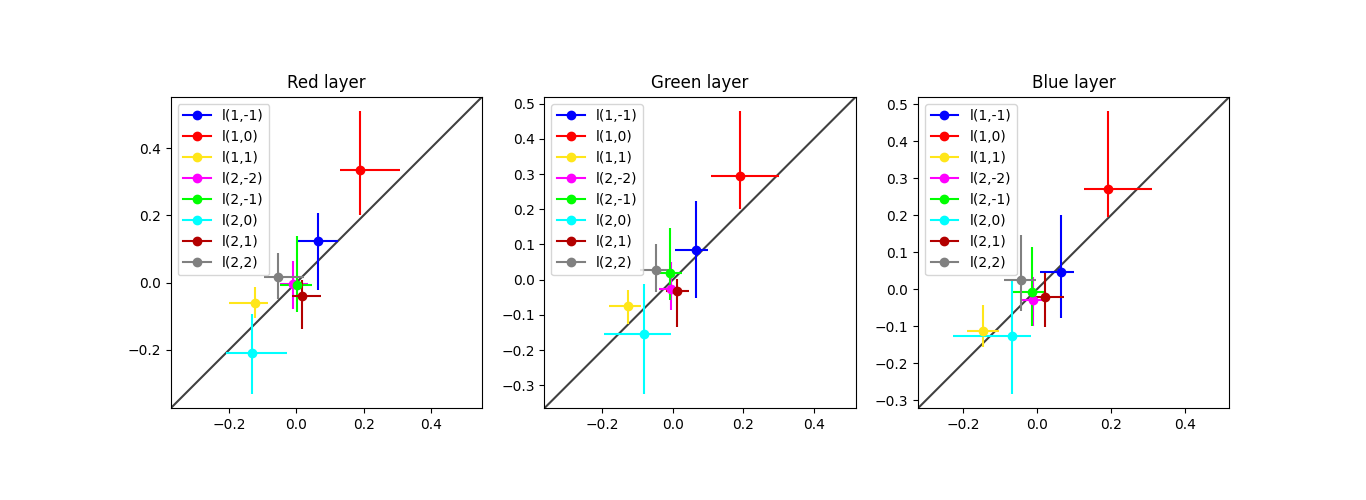
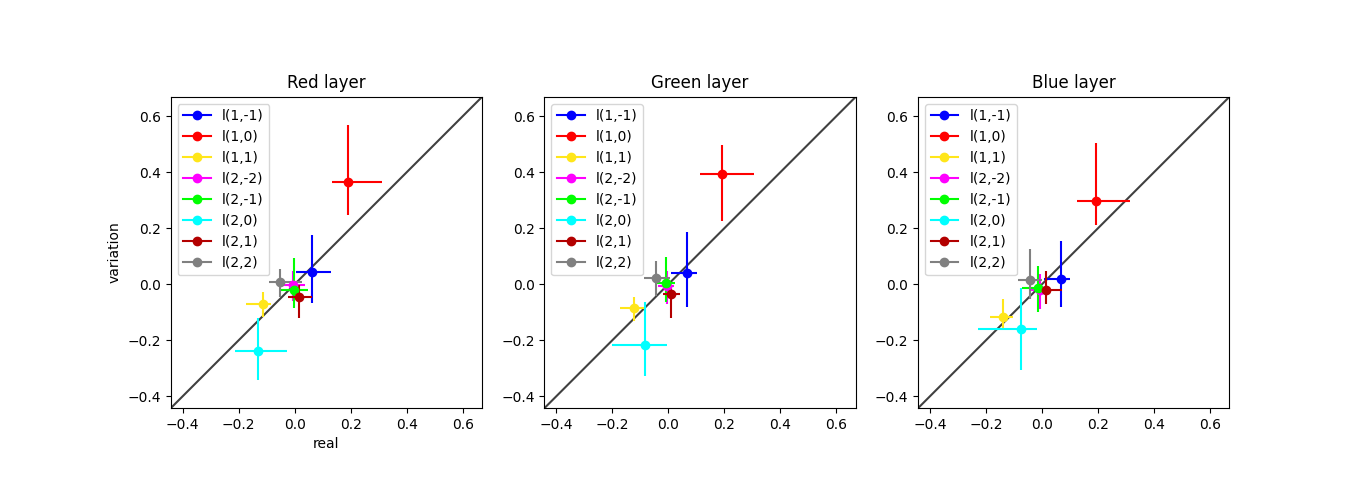
geometrical_behaviour.png

diff --git a/Code/figure_4.py b/Code/figure_4.py
@@ -59,8 +59,64 @@ l20ListY = [[myC.l20[k]/myC.l00[k] for k in range(3)] for myC in dataY]
 l21ListY = [[myC.l21[k]/myC.l00[k] for k in range(3)] for myC in dataY]
 l22ListY = [[myC.l22[k]/myC.l00[k] for k in range(3)] for myC in dataY]
 
+#X
+l1m1Q35X = np.quantile(l1m1ListX, 0.35, axis=0)
+l1m1Q50X = np.quantile(l1m1ListX, 0.5, axis=0)
+l1m1Q65X = np.quantile(l1m1ListX, 0.65, axis=0)
+print(f"l1m1Q35X: {l1m1Q35X}")
+print(f"l1m1Q50X: {l1m1Q50X}")
+print(f"l1m1Q65X: {l1m1Q65X}")
+print()
+l10Q35X = np.quantile(l10ListX, 0.35, axis=0)
+l10Q50X = np.quantile(l10ListX, 0.5, axis=0)
+l10Q65X = np.quantile(l10ListX, 0.65, axis=0)
+print(f"l10Q35X: {l10Q35X}")
+print(f"l10Q50X: {l10Q50X}")
+print(f"l10Q65X: {l10Q65X}")
+print()
+l11Q35X = np.quantile(l11ListX, 0.35, axis=0)
+l11Q50X = np.quantile(l11ListX, 0.5, axis=0)
+l11Q65X = np.quantile(l11ListX, 0.65, axis=0)
+print(f"l11Q35X: {l11Q35X}")
+print(f"l11Q50X: {l11Q50X}")
+print(f"l11Q65X: {l11Q65X}")
+print()
+l2m2Q35X = np.quantile(l2m2ListX, 0.35, axis=0)
+l2m2Q50X = np.quantile(l2m2ListX, 0.5, axis=0)
+l2m2Q65X = np.quantile(l2m2ListX, 0.65, axis=0)
+print(f"l2m2Q35X: {l2m2Q35X}")
+print(f"l2m2Q50X: {l2m2Q50X}")
+print(f"l2m2Q65X: {l2m2Q65X}")
+print()
+l2m1Q35X = np.quantile(l2m1ListX, 0.35, axis=0)
+l2m1Q50X = np.quantile(l2m1ListX, 0.5, axis=0)
+l2m1Q65X = np.quantile(l2m1ListX, 0.65, axis=0)
+print(f"l2m1Q35X: {l2m1Q35X}")
+print(f"l2m1Q50X: {l2m1Q50X}")
+print(f"l2m1Q65X: {l2m1Q65X}")
+print()
+l20Q35X = np.quantile(l20ListX, 0.35, axis=0)
+l20Q50X = np.quantile(l20ListX, 0.5, axis=0)
+l20Q65X = np.quantile(l20ListX, 0.65, axis=0)
+print(f"l20Q35X: {l20Q35X}")
+print(f"l20Q50X: {l20Q50X}")
+print(f"l20Q65X: {l20Q65X}")
+print()
+l21Q35X = np.quantile(l21ListX, 0.35, axis=0)
+l21Q50X = np.quantile(l21ListX, 0.5, axis=0)
+l21Q65X = np.quantile(l21ListX, 0.65, axis=0)
+print(f"l21Q35X: {l21Q35X}")
+print(f"l21Q50X: {l21Q50X}")
+print(f"l21Q65X: {l21Q65X}")
+print()
 
-print(dataY[0].image_id)
+l22Q35X = np.quantile(l22ListX, 0.35, axis=0)
+l22Q50X = np.quantile(l22ListX, 0.5, axis=0)
+l22Q65X = np.quantile(l22ListX, 0.65, axis=0)
+print(f"l22Q35X: {l22Q35X}")
+print(f"l22Q50X: {l22Q50X}")
+print(f"l22Q65X: {l22Q65X}")
+print()
 
 #Y
 l1m1Q35Y = np.quantile(l1m1ListY, 0.35, axis=0)
@@ -121,65 +177,49 @@ print(f"l22Q50Y: {l22Q50Y}")
 print(f"l22Q65Y: {l22Q65Y}")
 print()
 
-#X
-l1m1Q35X = np.quantile(l1m1ListX, 0.35, axis=0)
-l1m1Q50X = np.quantile(l1m1ListX, 0.5, axis=0)
-l1m1Q65X = np.quantile(l1m1ListX, 0.65, axis=0)
-print(f"l1m1Q35X: {l1m1Q35X}")
-print(f"l1m1Q50X: {l1m1Q50X}")
-print(f"l1m1Q65X: {l1m1Q65X}")
-print()
-l10Q35X = np.quantile(l10ListX, 0.35, axis=0)
-l10Q50X = np.quantile(l10ListX, 0.5, axis=0)
-l10Q65X = np.quantile(l10ListX, 0.65, axis=0)
-print(f"l10Q35X: {l10Q35X}")
-print(f"l10Q50X: {l10Q50X}")
-print(f"l10Q65X: {l10Q65X}")
-print()
-l11Q35X = np.quantile(l11ListX, 0.35, axis=0)
-l11Q50X = np.quantile(l11ListX, 0.5, axis=0)
-l11Q65X = np.quantile(l11ListX, 0.65, axis=0)
-print(f"l11Q35X: {l11Q35X}")
-print(f"l11Q50X: {l11Q50X}")
-print(f"l11Q65X: {l11Q65X}")
-print()
-l2m2Q35X = np.quantile(l2m2ListX, 0.35, axis=0)
-l2m2Q50X = np.quantile(l2m2ListX, 0.5, axis=0)
-l2m2Q65X = np.quantile(l2m2ListX, 0.65, axis=0)
-print(f"l2m2Q35X: {l2m2Q35X}")
-print(f"l2m2Q50X: {l2m2Q50X}")
-print(f"l2m2Q65X: {l2m2Q65X}")
-print()
-l2m1Q35X = np.quantile(l2m1ListX, 0.35, axis=0)
-l2m1Q50X = np.quantile(l2m1ListX, 0.5, axis=0)
-l2m1Q65X = np.quantile(l2m1ListX, 0.65, axis=0)
-print(f"l2m1Q35X: {l2m1Q35X}")
-print(f"l2m1Q50X: {l2m1Q50X}")
-print(f"l2m1Q65X: {l2m1Q65X}")
-print()
-l20Q35X = np.quantile(l20ListX, 0.35, axis=0)
-l20Q50X = np.quantile(l20ListX, 0.5, axis=0)
-l20Q65X = np.quantile(l20ListX, 0.65, axis=0)
-print(f"l20Q35X: {l20Q35X}")
-print(f"l20Q50X: {l20Q50X}")
-print(f"l20Q65X: {l20Q65X}")
-print()
-l21Q35X = np.quantile(l21ListX, 0.35, axis=0)
-l21Q50X = np.quantile(l21ListX, 0.5, axis=0)
-l21Q65X = np.quantile(l21ListX, 0.65, axis=0)
-print(f"l21Q35X: {l21Q35X}")
-print(f"l21Q50X: {l21Q50X}")
-print(f"l21Q65X: {l21Q65X}")
+
+print(f"l1m1X: {max([np.abs(l1m1Q50X[0]-l1m1Q50X[1]), np.abs(l1m1Q50X[0]-l1m1Q50X[2]), np.abs(l1m1Q50X[1]-l1m1Q50X[2])])}")
+print(f"l10X: {max([np.abs(l10Q50X[0]-l10Q50X[1]), np.abs(l10Q50X[0]-l10Q50X[2]), np.abs(l10Q50X[1]-l10Q50X[2])])}")
+print(f"l11X: {max([np.abs(l11Q50X[0]-l11Q50X[1]), np.abs(l11Q50X[0]-l11Q50X[2]), np.abs(l11Q50X[1]-l11Q50X[2])])}")
+print(f"l2m2X: {max([np.abs(l2m2Q50X[0]-l2m2Q50X[1]), np.abs(l2m2Q50X[0]-l2m2Q50X[2]), np.abs(l2m2Q50X[1]-l2m2Q50X[2])])}")
+print(f"l2m1X: {max([np.abs(l2m1Q50X[0]-l2m1Q50X[1]), np.abs(l2m1Q50X[0]-l2m1Q50X[2]), np.abs(l2m1Q50X[1]-l2m1Q50X[2])])}")
+print(f"l20X: {max([np.abs(l20Q50X[0]-l20Q50X[1]), np.abs(l20Q50X[0]-l20Q50X[2]), np.abs(l20Q50X[1]-l20Q50X[2])])}")
+print(f"l21X: {max([np.abs(l21Q50X[0]-l21Q50X[1]), np.abs(l21Q50X[0]-l21Q50X[2]), np.abs(l21Q50X[1]-l21Q50X[2])])}")
+print(f"l22X: {max([np.abs(l22Q50X[0]-l22Q50X[1]), np.abs(l22Q50X[0]-l22Q50X[2]), np.abs(l22Q50X[1]-l22Q50X[2])])}")
+
+print(f"l1m1Y: {max([np.abs(l1m1Q50Y[0]-l1m1Q50Y[1]), np.abs(l1m1Q50Y[0]-l1m1Q50Y[2]), np.abs(l1m1Q50Y[1]-l1m1Q50Y[2])])}")
+print(f"l10Y: {max([np.abs(l10Q50Y[0]-l10Q50Y[1]), np.abs(l10Q50Y[0]-l10Q50Y[2]), np.abs(l10Q50Y[1]-l10Q50Y[2])])}")
+print(f"l11Y: {max([np.abs(l11Q50Y[0]-l11Q50Y[1]), np.abs(l11Q50Y[0]-l11Q50Y[2]), np.abs(l11Q50Y[1]-l11Q50Y[2])])}")
+print(f"l2m2Y: {max([np.abs(l2m2Q50Y[0]-l2m2Q50Y[1]), np.abs(l2m2Q50Y[0]-l2m2Q50Y[2]), np.abs(l2m2Q50Y[1]-l2m2Q50Y[2])])}")
+print(f"l2m1Y: {max([np.abs(l2m1Q50Y[0]-l2m1Q50Y[1]), np.abs(l2m1Q50Y[0]-l2m1Q50Y[2]), np.abs(l2m1Q50Y[1]-l2m1Q50Y[2])])}")
+print(f"l20Y: {max([np.abs(l20Q50Y[0]-l20Q50Y[1]), np.abs(l20Q50Y[0]-l20Q50Y[2]), np.abs(l20Q50Y[1]-l20Q50Y[2])])}")
+print(f"l21Y: {max([np.abs(l21Q50Y[0]-l21Q50Y[1]), np.abs(l21Q50Y[0]-l21Q50Y[2]), np.abs(l21Q50Y[1]-l21Q50Y[2])])}")
+print(f"l22Y: {max([np.abs(l22Q50Y[0]-l22Q50Y[1]), np.abs(l22Q50Y[0]-l22Q50Y[2]), np.abs(l22Q50Y[1]-l22Q50Y[2])])}")
 print()
 
-l22Q35X = np.quantile(l22ListX, 0.35, axis=0)
-l22Q50X = np.quantile(l22ListX, 0.5, axis=0)
-l22Q65X = np.quantile(l22ListX, 0.65, axis=0)
-print(f"l22Q35X: {l22Q35X}")
-print(f"l22Q50X: {l22Q50X}")
-print(f"l22Q65X: {l22Q65X}")
+differencesX = [0]*3
+differencesY = [0]*3
+for i in range(3):
+	differencesX[i] = np.mean([	l1m1Q65X[i]-l1m1Q35X[i],
+				l10Q65X[i]-l10Q35X[i],
+				l11Q65X[i]-l11Q35X[i],
+				l2m2Q65X[i]-l2m2Q35X[i],
+				l2m1Q65X[i]-l2m1Q35X[i],
+				l20Q65X[i]-l20Q35X[i],
+				l21Q65X[i]-l21Q35X[i],
+				l22Q65X[i]-l22Q35X[i]])
+	differencesY[i] = np.mean([	l1m1Q65Y[i]-l1m1Q35Y[i],
+				l10Q65Y[i]-l10Q35Y[i],
+				l11Q65Y[i]-l11Q35Y[i],
+				l2m2Q65Y[i]-l2m2Q35Y[i],
+				l2m1Q65Y[i]-l2m1Q35Y[i],
+				l20Q65Y[i]-l20Q35Y[i],
+				l21Q65Y[i]-l21Q35Y[i],
+				l22Q65Y[i]-l22Q35Y[i]])
+	
+print(f"mean of differences 65 and 35 quantile X = {differencesX}")
+print(f"mean of differences 65 and 35 quantile Y = {differencesY}")
 print()
-
 
 #c in RGBA (red, green, blue, alpha)
 
@@ -188,49 +228,49 @@ fig, axes = plt.subplots(1, 3, figsize=(15, 5))
 for i in range(3):
 	
 	#Y and X
-	axes[i].plot(l1m1Q50Y[i], l1m1Q50X[i], c=[0, 0, 1, 1], marker="o", label="l(1,-1)")
-	axes[i].plot(l10Q50Y[i], l10Q50X[i], c=[1, 0, 0, 1], marker="o", label="l(1,0)")
-	axes[i].plot(l11Q50Y[i], l11Q50X[i], c=[1, 0.9, 0.1, 1], marker="o", label="l(1,1)")
-	axes[i].plot(l2m2Q50Y[i], l2m2Q50X[i], c=[1, 0, 1, 1], marker="o", label="l(2,-2)")
-	axes[i].plot(l2m1Q50Y[i], l2m1Q50X[i], c=[0, 1, 0, 1], marker="o", label="l(2,-1)")
-	axes[i].plot(l20Q50Y[i], l20Q50X[i], c=[0, 1, 1, 1], marker="o", label="l(2,0)")
-	axes[i].plot(l21Q50Y[i], l21Q50X[i], c=[0.7, 0, 0, 1], marker="o", label="l(2,1)")
-	axes[i].plot(l22Q50Y[i], l22Q50X[i], c=[0.5, 0.5, 0.5, 1], marker="o", label="l(2,2)")
+	axes[i].plot(l1m1Q50X[i], l1m1Q50Y[i], c=[0, 0, 1, 1], marker="o", label="l(1,-1)")
+	axes[i].plot(l10Q50X[i], l10Q50Y[i], c=[1, 0, 0, 1], marker="o", label="l(1,0)")
+	axes[i].plot(l11Q50X[i], l11Q50Y[i], c=[1, 0.9, 0.1, 1], marker="o", label="l(1,1)")
+	axes[i].plot(l2m2Q50X[i], l2m2Q50Y[i], c=[1, 0, 1, 1], marker="o", label="l(2,-2)")
+	axes[i].plot(l2m1Q50X[i], l2m1Q50Y[i], c=[0, 1, 0, 1], marker="o", label="l(2,-1)")
+	axes[i].plot(l20Q50X[i], l20Q50Y[i], c=[0, 1, 1, 1], marker="o", label="l(2,0)")
+	axes[i].plot(l21Q50X[i], l21Q50Y[i], c=[0.7, 0, 0, 1], marker="o", label="l(2,1)")
+	axes[i].plot(l22Q50X[i], l22Q50Y[i], c=[0.5, 0.5, 0.5, 1], marker="o", label="l(2,2)")
 
 
 	lines = []
 	c = []
 	# Y and X
-	lines.append([(l1m1Q35Y[i], l1m1Q50X[i]), (l1m1Q65Y[i], l1m1Q50X[i])])
-	lines.append([(l1m1Q50Y[i], l1m1Q35X[i]), (l1m1Q50Y[i], l1m1Q65X[i])])
+	lines.append([(l1m1Q35X[i], l1m1Q50Y[i]), (l1m1Q65X[i], l1m1Q50Y[i])])
+	lines.append([(l1m1Q50X[i], l1m1Q35Y[i]), (l1m1Q50X[i], l1m1Q65Y[i])])
 	c.append([0, 0, 1, 1])
 	c.append([0, 0, 1, 1])
-	lines.append([(l10Q35Y[i], l10Q50X[i]), (l10Q65Y[i], l10Q50X[i])])
-	lines.append([(l10Q50Y[i], l10Q35X[i]), (l10Q50Y[i], l10Q65X[i])])
+	lines.append([(l10Q35X[i], l10Q50Y[i]), (l10Q65X[i], l10Q50Y[i])])
+	lines.append([(l10Q50X[i], l10Q35Y[i]), (l10Q50X[i], l10Q65Y[i])])
 	c.append([1, 0, 0, 1])
 	c.append([1, 0, 0, 1])
-	lines.append([(l11Q35Y[i], l11Q50X[i]), (l11Q65Y[i], l11Q50X[i])])
-	lines.append([(l11Q50Y[i], l11Q35X[i]), (l11Q50Y[i], l11Q65X[i])])
+	lines.append([(l11Q35X[i], l11Q50Y[i]), (l11Q65X[i], l11Q50Y[i])])
+	lines.append([(l11Q50X[i], l11Q35Y[i]), (l11Q50X[i], l11Q65Y[i])])
 	c.append([1, 0.9, 0.1, 1])
 	c.append([1, 0.9, 0.1, 1])
-	lines.append([(l2m2Q35Y[i], l2m2Q50X[i]), (l2m2Q65Y[i], l2m2Q50X[i])])
-	lines.append([(l2m2Q50Y[i], l2m2Q35X[i]), (l2m2Q50Y[i], l2m2Q65X[i])])
+	lines.append([(l2m2Q35X[i], l2m2Q50Y[i]), (l2m2Q65X[i], l2m2Q50Y[i])])
+	lines.append([(l2m2Q50X[i], l2m2Q35Y[i]), (l2m2Q50X[i], l2m2Q65Y[i])])
 	c.append([1, 0, 1, 1])
 	c.append([1, 0, 1, 1])
-	lines.append([(l2m1Q35Y[i], l2m1Q50X[i]), (l2m1Q65Y[i], l2m1Q50X[i])])
-	lines.append([(l2m1Q50Y[i], l2m1Q35X[i]), (l2m1Q50Y[i], l2m1Q65X[i])])
+	lines.append([(l2m1Q35X[i], l2m1Q50Y[i]), (l2m1Q65X[i], l2m1Q50Y[i])])
+	lines.append([(l2m1Q50X[i], l2m1Q35Y[i]), (l2m1Q50X[i], l2m1Q65Y[i])])
 	c.append([0, 1, 0, 1])
 	c.append([0, 1, 0, 1])
-	lines.append([(l20Q35Y[i], l20Q50X[i]), (l20Q65Y[i], l20Q50X[i])])
-	lines.append([(l20Q50Y[i], l20Q35X[i]), (l20Q50Y[i], l20Q65X[i])])
+	lines.append([(l20Q35X[i], l20Q50Y[i]), (l20Q65X[i], l20Q50Y[i])])
+	lines.append([(l20Q50X[i], l20Q35Y[i]), (l20Q50X[i], l20Q65Y[i])])
 	c.append([0, 1, 1, 1])
 	c.append([0, 1, 1, 1])
-	lines.append([(l21Q35Y[i], l21Q50X[i]), (l21Q65Y[i], l21Q50X[i])])
-	lines.append([(l21Q50Y[i], l21Q35X[i]), (l21Q50Y[i], l21Q65X[i])])
+	lines.append([(l21Q35X[i], l21Q50Y[i]), (l21Q65X[i], l21Q50Y[i])])
+	lines.append([(l21Q50X[i], l21Q35Y[i]), (l21Q50X[i], l21Q65Y[i])])
 	c.append([0.7, 0, 0, 1])
 	c.append([0.7, 0, 0, 1])
-	lines.append([(l22Q35Y[i], l22Q50X[i]), (l22Q65Y[i], l22Q50X[i])])
-	lines.append([(l22Q50Y[i], l22Q35X[i]), (l22Q50Y[i], l22Q65X[i])])
+	lines.append([(l22Q35X[i], l22Q50Y[i]), (l22Q65X[i], l22Q50Y[i])])
+	lines.append([(l22Q50X[i], l22Q35Y[i]), (l22Q50X[i], l22Q65Y[i])])
 	c.append([0.5, 0.5, 0.5, 1])
 	c.append([0.5, 0.5, 0.5, 1])
 
@@ -241,16 +281,20 @@ for i in range(3):
 	axes[i].add_collection(lc)
 	axes[i].autoscale()
 	axes[i].margins(0.05)
-
+	
 	lims = [
-		np.min([axes[i].get_xlim(), axes[i].get_ylim()]),  # min of both axes[i]es
-		np.max([axes[i].get_xlim(), axes[i].get_ylim()]),  # max of both axes[i]es
+		np.min([l1m1Q35X, l10Q35X, l11Q35X, l2m2Q35X, l2m1Q35X, l20Q35X, l21Q35X, l22Q35X, l1m1Q35Y, l10Q35Y, l11Q35Y, l2m2Q35Y, l2m1Q35Y, l20Q35Y, l21Q35Y, l22Q35Y])-0.1,  # min of both axes[i]es
+		np.max([l1m1Q65X, l10Q65X, l11Q65X, l2m2Q65X, l2m1Q65X, l20Q65X, l21Q65X, l22Q65X, l1m1Q65Y, l10Q65Y, l11Q65Y, l2m2Q65Y, l2m1Q65Y, l20Q65Y, l21Q65Y, l22Q65Y])+0.1,  # max of both axes[i]es
 	]
+	
 	axes[i].plot(lims, lims, 'k-', alpha=0.75, zorder=0)
 	axes[i].set_aspect('equal')
 	axes[i].set_xlim(lims)
 	axes[i].set_ylim(lims)
 	axes[i].legend(loc="upper left")
+	if i==0:
+		axes[i].set_xlabel(f"{flag1}")
+		axes[i].set_ylabel(f"{flag2}")
 	
 	if i==0:
 		axes[i].set_title(label="Red layer")

diff --git a/Code/circle.py b/Code/circle.py
@@ -515,7 +515,7 @@ if __name__ == '__main__':
 	# We have already estimated for you the sphere's center and radius
 	C = circle(554, 270, 241, image=originalImage)
 
-	# Let's estimate the l_{i,j} coefficients using M = 150 points
+	# Let's estimate the l_{i,j} coefficients using M points
 	C.estimateCoefficients(M=1000)
 	print("The coefficients have been estimated.")
 
